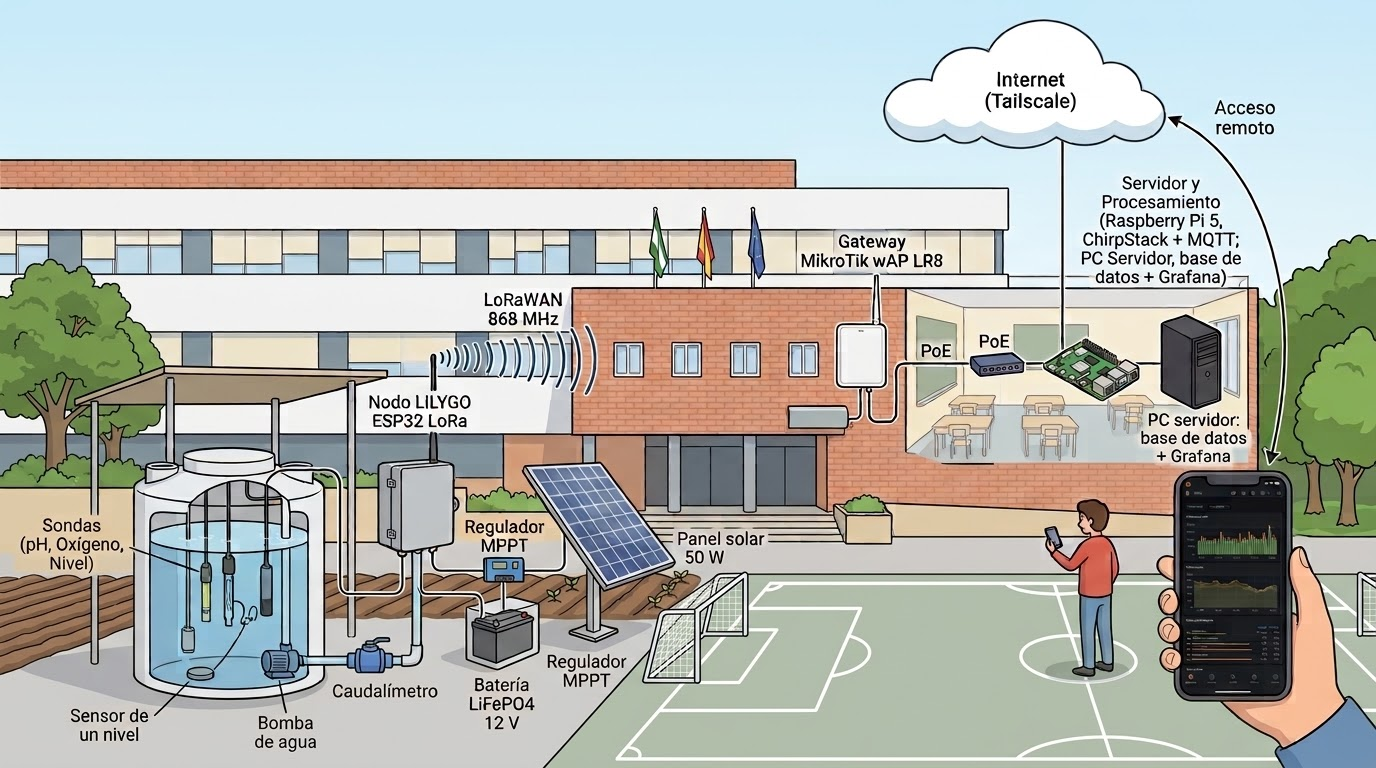
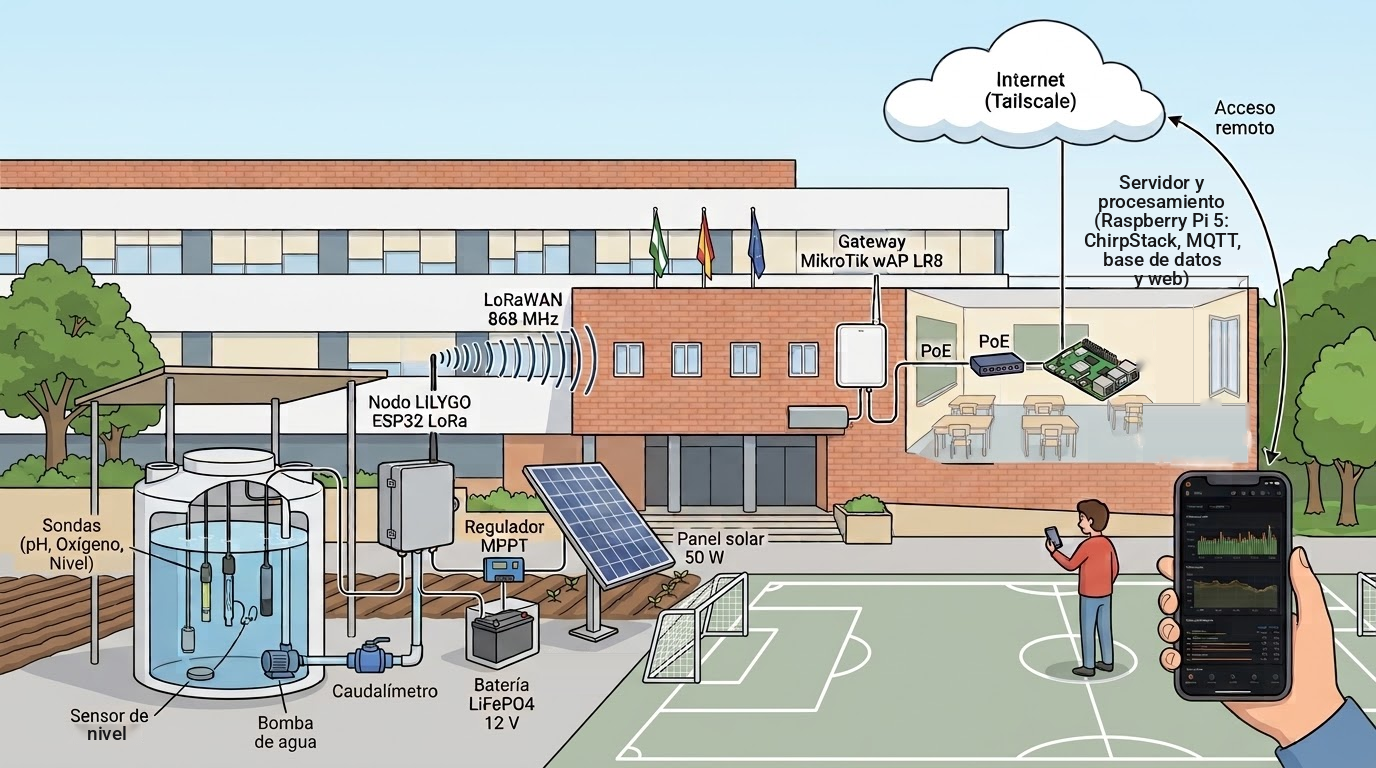
Lista de compra con enlaces comprobados y esquema corregido
Claude-Session: https://claude.ai/code/session_01RyhjygNwHjQbu5NjbwJkqd

diff --git a/docs/07-lista-compra.md b/docs/07-lista-compra.md
@@ -1,0 +1,162 @@
+# Lista de compra con enlaces
+
+Solo lo que hay que comprar (el material que ya tenemos está en `01-lista-material.md`, apartado A).
+Enlaces comprobados el 29/09/2026: todos abrían la ficha del producto con stock, salvo los marcados **SIN VERIFICAR**.
+Precios unitarios con IVA salvo DFRobot (en dólares, sin IVA ni envío). Pueden cambiar.
+
+No hace falta comprar: el convertidor 4-20 mA (viene con el KIT0139), el switch (con solo el wAP no hace falta),
+el PC de datos (todo va en la Raspberry) ni el DC-DC para el DFR1120 (admite 12-24 V según la wiki de DFRobot).
+
+## 1. Electrónica del nodo
+
+| Cant. | Artículo | Tienda | Precio ud. | Subtotal | Notas |
+|---|---|---|---|---|---|
+| 1 | [ADC 16 bits I2C Gravity ADS1115 (DFR0553)](https://www.dfrobot.com/product-1730.html) | DFRobot (oficial) | 15.50 $ | 15.50 $ | Envío desde China; IVA y aduana aparte. Alternativa en España: Adafruit ADS1115 en Embajadores, 21,63 €: https://www.electronicaembajadores.com/es/Productos/Detalle/LCINDD7/ |
+| 1 | [Aislador de señal analógica Gravity (DFR0504)](https://www.dfrobot.com/product-1621.html) | DFRobot (oficial) | 19.90 $ | 19.90 $ | No lo vende ninguna tienda española comprobable |
+| 1 | [Adaptador RS485-UART aislado Gravity (DFR0845)](https://www.electronicaembajadores.com/es/Productos/Detalle/LCHR006/) | Electrónica Embajadores | 36,14 € | 36,14 € | En DFRobot cuesta 19,90 USD |
+| 1 | [Convertidor DC-DC 12 V a 5 V 2,5 A Pololu D24V25F5 (reposo < 1 mA)](https://www.electan.com/pololu-25a-stepdown-voltage-regulator-d24v25f5-p-6473.html) | Electan | 29,26 € | 29,26 € |  |
+| 1 | [MOSFET P IRF4905 (conmutador 12 V)](https://www.electronicaembajadores.com/es/Productos/Detalle/SMTRIRF4905/) | Electrónica Embajadores | 1,28 € | 1,28 € | Sustituye al IRF9540N, que está sin stock |
+| 1 | [MOSFET P AO3401 SOT-23 (conmutador 5 V)](https://www.amazon.es/s?k=AO3401+SOT-23) | Amazon.es (búsqueda) | — | — | SIN VERIFICAR: Amazon no deja comprobarlo. Suele venir en lotes |
+| 1 | [Adaptador SOT-23 a DIP para el AO3401](https://www.electronicaembajadores.com/es/Productos/Detalle/CN15006/) | Electrónica Embajadores | 0,61 € | 0,61 € |  |
+| 2 | [Transistor NPN BC547C](https://www.electronicaembajadores.com/es/Productos/Detalle/SMTRBC547C/) | Electrónica Embajadores | 0,29 € | 0,58 € |  |
+| 1 | [MOSFET N nivel lógico IRLZ44N (bomba)](https://www.turibot.es/mosfet-irlz44n-49a-55v-5uds) | Turibot | 0,84 € | 0,84 € | Confirmar si el precio es por unidad o por lote |
+| 1 | [Diodo Schottky 1N5819](https://www.electronicaembajadores.com/es/Productos/Detalle/SMDI1N5819/) | Electrónica Embajadores | 0,28 € | 0,28 € |  |
+| 1 | [Kit 600 resistencias 1 % (30 valores: 220, 1k, 10k, 20k, 100k...)](https://leantec.es/tienda/lote-kit-600-resistencias-1-4w-1-30-valores/) | Leantec | 4,27 € | 4,27 € |  |
+| 2 | [Resistencia 22 kΩ 1 %](https://leantec.es/tienda/resistencia-22-kohm-1-4w-0-25w-pelicula-metalica-1/) | Leantec | 0,03 € | 0,06 € | Divisor de la batería |
+| 1 | [Placa de topos doble cara 9×15 cm](https://www.tiendatec.es/electronica/placas-de-prototipo/placas/891-placa-pcb-prototipos-doble-cara-9x15cm-8472496014496.html) | Tiendatec | 1,85 € | 1,85 € |  |
+| 2 | [Tira de pines hembra 2,54 mm 40 pines](https://www.electronicaembajadores.com/es/Productos/Detalle/CTO1HR40/) | Electrónica Embajadores | 1,71 € | 3,42 € |  |
+| 2 | [Tira de pines macho 2,54 mm 40 pines](https://www.electronicaembajadores.com/es/Productos/Detalle/CTO1MR40/) | Electrónica Embajadores | 0,50 € | 1,00 € |  |
+| 6 | [Borna de tornillo PCB 5,08 mm 2 vías](https://www.electronicaembajadores.com/es/Productos/Detalle/CTNA5102/) | Electrónica Embajadores | 0,30 € | 1,80 € |  |
+| 4 | [Borna de tornillo PCB 5,08 mm 3 vías](https://www.electronicaembajadores.com/es/Productos/Detalle/CTNA5103/) | Electrónica Embajadores | 0,43 € | 1,72 € |  |
+| 1 | [Cables Gravity PH2.0 3 pines (pack) FIT0896](https://www.dfrobot.com/product-2552.html) | DFRobot (oficial) | 6.00 $ | 6.00 $ |  |
+| 1 | [Kit antena LoRaWAN 868 MHz exterior + cable IPEX-SMA](https://www.tiendatec.es/maker-zone/comunicaciones-redes/2762-seeed-kit-antena-lorawan-para-wm1302.html) | Tiendatec | 6,95 € | 6,95 € |  |
+| 1 | [Pigtail u.FL a SMA hembra de pasamuros 15 cm](https://www.electronicaembajadores.com/es/Productos/Detalle/CXRF001/) | Electrónica Embajadores | 5,15 € | 5,15 € | Para sacar la antena por la pared de la caja |
+| 1 | [Cable USB-A a USB-C de datos 1 m](https://www.electronicaembajadores.com/es/Productos/Detalle/CX313101/) | Electrónica Embajadores | 5,83 € | 5,83 € | Si la LILYGO es micro-USB, cambiarlo |
+
+Subtotal: **101,04 €** + **41.40 $**
+
+## 2. Cajas, conectores y cableado exterior
+
+| Cant. | Artículo | Tienda | Precio ud. | Subtotal | Notas |
+|---|---|---|---|---|---|
+| 1 | [Caja estanca IP66 255×250×120 mm (electrónica)](https://www.electronicaembajadores.com/es/Productos/Detalle/CJ41G712/) | Electrónica Embajadores | 56,55 € | 56,55 € |  |
+| 1 | [Caja estanca ABS 320×270×121 mm IP65 (batería y MPPT)](https://www.electronicaembajadores.com/es/Productos/Detalle/CJ41D09/) | Electrónica Embajadores | 69,03 € | 69,03 € | La batería va tumbada; con el toldo encima, IP65 es suficiente |
+| 2 | [Tapón de ventilación M12 con membrana](https://www.amazon.es/s?k=tap%C3%B3n+ventilaci%C3%B3n+M12x1.5+IP68+membrana) | Amazon.es (búsqueda) | — | — | SIN VERIFICAR |
+| 1 | [Conector GX16 4 pines: base macho](https://www.electronicaembajadores.com/es/Productos/Detalle/CTEAMB4/) | Electrónica Embajadores | 1,00 € | 1,00 € | Sensor de oxígeno |
+| 1 | [Conector GX16 4 pines: aéreo hembra](https://www.electronicaembajadores.com/es/Productos/Detalle/CTEAHA4/) | Electrónica Embajadores | 0,90 € | 0,90 € |  |
+| 1 | [Conector GX16 2 pines: base macho](https://www.electronicaembajadores.com/es/Productos/Detalle/CTEAMB2/) | Electrónica Embajadores | 1,40 € | 1,40 € | Bomba |
+| 1 | [Conector GX16 2 pines: aéreo hembra](https://www.electronicaembajadores.com/es/Productos/Detalle/CTEAHA2/) | Electrónica Embajadores | 1,23 € | 1,23 € |  |
+| 3 | [Conector GX16 3 pines: base macho](https://www.electronicaembajadores.com/es/Productos/Detalle/CTEAMB3/) | Electrónica Embajadores | 0,94 € | 2,82 € | Caudalímetro, presencia de agua y nivel |
+| 3 | [Conector GX16 3 pines: aéreo hembra](https://www.electronicaembajadores.com/es/Productos/Detalle/CTEAHA3/) | Electrónica Embajadores | 0,92 € | 2,76 € |  |
+| 1 | [Pasamuros BNC hembra-hembra](https://www.electronicaembajadores.com/es/Productos/Detalle/CT2A703/) | Electrónica Embajadores | 2,25 € | 2,25 € | Sonda de pH |
+| 3 | [Prensaestopas PG9 IP68](https://www.electronicaembajadores.com/es/Productos/Detalle/CC2APG09N/) | Electrónica Embajadores | 0,84 € | 2,52 € |  |
+| 3 | [Prensaestopas PG11 IP68](https://www.electronicaembajadores.com/es/Productos/Detalle/CC2APG11N/) | Electrónica Embajadores | 0,80 € | 2,40 € |  |
+| 5 | [Manguera apantallada 4×0,5 mm² (metro)](https://www.electricidad.tienda/cable-apantallado/manguera-apantallada-4x05-mm2-libre-de-halogenos-rc4z1-k-por-metros-7372.html) | electricidad.tienda | 1,36 € | 6,80 € | RS485 + 12 V del sensor de oxígeno |
+| 5 | [Manguera 3×1 mm² (metro)](https://www.electronicaembajadores.com/es/Productos/Detalle/CA2A011/) | Electrónica Embajadores | 1,98 € | 9,90 € | Caudalímetro, presencia y nivel |
+| 3 | [Manguera RV-K 2×1,5 mm² exterior (metro)](https://www.electronicaembajadores.com/es/Productos/Detalle/CA2A213/) | Electrónica Embajadores | 1,88 € | 5,64 € | Bomba |
+| 1 | [Barniz protector tropicalizador Jelt Tropicoat 400 ml](https://www.electronicaembajadores.com/es/Productos/Detalle/HR11060/) | Electrónica Embajadores | 18,85 € | 18,85 € |  |
+| 1 | [Gel de sílice, 100 bolsitas de 10 g](https://www.bolaseca.com/es/productos/silica-gel/silica-gel-100-bolsitas-de-10-gramos) | Bolaseca | — | — | Pedir presupuesto (no muestra precio) |
+| 1 | [Candado numérico 4 dígitos](https://www.electronicaembajadores.com/es/Productos/Detalle/SG2A101N/) | Electrónica Embajadores | 6,78 € | 6,78 € | Solo si la caja tiene orejetas |
+
+Subtotal: **190,83 €**
+
+## 3. Circuito de agua y soporte de sondas
+
+| Cant. | Artículo | Tienda | Precio ud. | Subtotal | Notas |
+|---|---|---|---|---|---|
+| 1 | [Bidón HDPE 60 L con tapa, gris opaco](https://ricardoteransl.es/producto/bidon-gris-60-l/) | Ricardo Terán | 29,50 € | 29,50 € | COMPROBAR que la boca es ancha: las sondas se cuelgan de una pletina que cruza la boca |
+| 1 | [Bomba sumergible 12 V sin escobillas DC40A-1230 (0,8 A, 500 L/h, 3 m)](https://www.amazon.es/s?k=DC40A-1230) | Amazon.es (búsqueda) | — | — | SIN VERIFICAR. Ficha del fabricante: https://zksj.com/product/3_phase_brushless_DC_Pump_DC40A.html . Comprobar que es la 1230 de 12 V (la 1245 gasta 1,2 A) |
+| 1 | [Filtro en Y latón 1/2" H-H, malla inox](https://www.traxco.es/tienda/filtro-laton) | Traxco | 3,60 € | 3,60 € | Elegir 1/2" |
+| 1 | [Caudalímetro de efecto Hall YF-S201](https://tienda.bricogeek.com/otros-sensores/936-sensor-de-flujo-yf-s201.html) | BricoGeek | 4,78 € | 4,78 € |  |
+| 1 | [Válvula de esfera PVC 1/2" rosca hembra](https://www.fuentejardin.com/valvulas-de-esfera-pvc-rh/388-valvula-de-esfera-pvc-12-rosca-hembra.html) | FuenteJardín (Sevilla) | 7,44 € | 7,44 € |  |
+| 3 | [Manguera cristal reforzada 12×18 mm (metro)](https://www.suministrosurquiza.com/metro-manguera-cristal-reforzada) | Suministros Urquiza | 1,39 € | 4,17 € | Elegir 12×18 |
+| 3 | [Entronque manguera macho latón 14 mm × 1/2"](https://www.fuentejardin.com/entronque-manguera-macho-laton/2263-entronque-manguera-macho-laton-14mmx12.html) | FuenteJardín (Sevilla) | 4,46 € | 13,38 € |  |
+| 1 | [Racor manguera hembra latón 14 mm × 1/2"](https://www.fuentejardin.com/racor-2-piezas-manguera-hembra/2269-racor-2-piezas-manguera-h-laton-14mmx12.html) | FuenteJardín (Sevilla) | 2,88 € | 2,88 € |  |
+| 10 | [Abrazadera sinfín inox W4 12-22 mm](https://agrogomasonline.com/sin-fin-inox/8279-abrazaderas-sinfin-inox-w4-12-22-l.html) | Agrogomas | 1,45 € | 14,50 € |  |
+| 1 | [Cinta de teflón 12 m](https://www.fuentejardin.com/cinta-de-sellado/383-cinta-de-sellado-12-mm-x-12-m-x-01-mm.html) | FuenteJardín (Sevilla) | 0,63 € | 0,63 € |  |
+| 1 | [Pletina de aluminio 40×3 mm, barra 2,5 m](https://www.esteba.com/es/perfil-pletina-plana-aluminio) | Esteba | 29,27 € | 29,27 € | Soporte de las sondas; elegir 40×3 |
+| 1 | [Prensaestopas PG16 IP68 (sonda de pH)](https://www.electronicaembajadores.com/es/Productos/Detalle/CC2APG16/) | Electrónica Embajadores | 1,00 € | 1,00 € |  |
+| 3 | [Prensaestopas PG21 IP68 (sonda de oxígeno y tapa del depósito)](https://www.electronicaembajadores.com/es/Productos/Detalle/CC2APG21/) | Electrónica Embajadores | 1,80 € | 5,40 € | Medir la sonda de oxígeno antes |
+| 1 | [Prensaestopas PG13,5 IP68 (cable del sensor de nivel)](https://www.electronicaembajadores.com/es/Productos/Detalle/CC2APG13/) | Electrónica Embajadores | 0,89 € | 0,89 € |  |
+| 8 | [Tornillo hexagonal DIN 933 inox A2 M6×30](https://entaban.es/hexagonales/138-tornillo-hexagonal-din-933-inoxidable-a2.html) | Entaban | 0,10 € | 0,80 € | Precio orientativo según medida |
+| 8 | [Tuerca autoblocante DIN 985 inox A2 M6](https://entaban.es/autoblocantes/164-tuerca-autoblocante-din-985-inoxidable-a2.html) | Entaban | 0,07 € | 0,56 € |  |
+| 1 | [Toldo vela HDPE 3,6×3,6 m](https://terralba.es/toldos-y-sombra/5454-toldo-vela-sombra-36x36-beige-8435450468308.html) | Terralba | 49,90 € | 49,90 € |  |
+
+Subtotal: **168,70 €**
+
+## 4. Energía autónoma (panel + batería)
+
+| Cant. | Artículo | Tienda | Precio ud. | Subtotal | Notas |
+|---|---|---|---|---|---|
+| 1 | [Panel solar Victron 50 W 12 V monocristalino](https://solarmat.es/es/paneles-solares-12v/panel-solar-monocristalino-12v-50w-victron.html) | Solarmat | 89,44 € | 89,44 € |  |
+| 1 | [Estructura regulable 30-60° para panel](https://www.damiasolar.com/estructura-para-panel-solar-regulable-30-a-60-grados.html) | Damia Solar | 55,00 € | 55,00 € |  |
+| 1 | [Batería LiFePO4 12,8 V 20 Ah con BMS FirstPower FPLI1220AH](https://www.andupil.com/es/baterias-para-alumbrado-de-emergencia-y-senalizacion/19144-bateria-de-litio-128v-20ah-256wh-lifepo4-firstpower-fpli1220ah.html) | Andupil | 134,16 € | 134,16 € | Alternativa más barata: INNPO 20 Ah, 75 €: https://bateriasonline.com/es/baterias-litio-recargable/bateria-lifepo4-12v-20ah-innpo-baterias-litio-recargable.html |
+| 1 | [Regulador Victron SmartSolar MPPT 75/10 (con salida de carga)](https://www.damiasolar.com/regulador-victron-mppt-smartsolar-75-10.html) | Damia Solar | 73,38 € | 73,38 € | Autoconsumo 20 mA; corte por baja tensión configurable |
+| 2 | [Portafusibles aéreo de láminas con tapa](https://www.electronicaembajadores.com/es/Productos/Detalle/FU5A011/) | Electrónica Embajadores | 1,53 € | 3,06 € | Dentro de la caja |
+| 4 | [Fusible de láminas 5 A](https://www.electronicaembajadores.com/es/Productos/Detalle/FUAUM502/) | Electrónica Embajadores | 0,20 € | 0,80 € | 2 de repuesto |
+| 4 | [Fusible de láminas 3 A](https://www.electronicaembajadores.com/es/Productos/Detalle/FUAUM302/) | Electrónica Embajadores | 0,35 € | 1,40 € | 2 de repuesto |
+| 1 | [Desconectador de baterías rotativo IP66](https://cuencasolar.es/producto/desconectador-de-baterias-300a/) | CuencaSolar | 57,86 € | 57,86 € | Sobredimensionado; un interruptor de 12 V más pequeño también vale. La tienda bloquea las comprobaciones automáticas: abrir el enlace a mano |
+| 10 | [Cable solar 4 mm² (metro)](https://solarmat.es/es/Cable-solar/metro-cable-solar-4mm2.html) | Solarmat | 2,21 € | 22,10 € | Negro: marcar el positivo con cinta roja |
+| 1 | [Par de conectores MC4](https://solarmat.es/es/Conector-solar/par-de-conectores-solares-macho-y-hembra.html) | Solarmat | 7,02 € | 7,02 € |  |
+| 2 | [Cable 2,5 mm² rojo (metro)](https://www.electronicaembajadores.com/en/Productos/Detalle/CA5A2PV22/) | Electrónica Embajadores | 3,16 € | 6,32 € | Confirmar si se vende por metro |
+| 2 | [Cable 2,5 mm² negro (metro)](https://www.electronicaembajadores.com/en/Productos/Detalle/CA5A2PV21/) | Electrónica Embajadores | 3,16 € | 6,32 € |  |
+| 1 | [Terminales de ojal 2,5 mm² M6 (25 uds)](https://www.electronicaembajadores.com/en/Productos/Detalle/CTV1R27-25/) | Electrónica Embajadores | 3,99 € | 3,99 € |  |
+| 1 | [Punteras 2,5 mm² (100 uds)](https://www.electronicaembajadores.com/en/Productos/Detalle/CTV1010/) | Electrónica Embajadores | 2,39 € | 2,39 € |  |
+| 1 | [Bridas negras 4,8×188 mm (100 uds)](https://todoelectrico.es/es/bridas-100-ud-negra-4-8x188mm-u2244-0.html) | Todoeléctrico | 6,21 € | 6,21 € |  |
+| 1 | [Pica de tierra 1,5 m cobreada](https://bricoelige.com/pica-acero-cobre-100-micras-15-metros) | Bricoelige | 14,69 € | 14,69 € | Solo si no hay toma de tierra cerca |
+| 1 | [Grapa para pica de tierra](https://bricoelige.com/grapa-toma-tierra-tgt142-sofamel) | Bricoelige | 3,44 € | 3,44 € |  |
+| 3 | [Cable 6 mm² para tierra (metro)](https://solarmat.es/es/Cable-solar/metro-cable-solar-6mm2.html) | Solarmat | 3,12 € | 9,36 € | Marcar con cinta verde-amarilla |
+| 1 | [Terminales de ojal 6 mm² (25 uds)](https://www.electronicaembajadores.com/es/Productos/Detalle/CTV1R45-25/) | Electrónica Embajadores | 5,90 € | 5,90 € |  |
+
+Subtotal: **502,84 €**
+
+## 5. Raspberry Pi 5 y red
+
+| Cant. | Artículo | Tienda | Precio ud. | Subtotal | Notas |
+|---|---|---|---|---|---|
+| 1 | [SSD NVMe M.2 2242 256 GB Waveshare](https://www.kubii.com/es/medios-de-almacenamiento/4997-disco-duro-ssd-nvme-m2-2242-3272496325340.html) | Kubii | 79,90 € | 79,90 € | El SSD oficial está agotado |
+| 1 | [Raspberry Pi M.2 HAT+ oficial](https://www.kubii.com/es/hat-dac-modulos/4114-m2-hat-para-raspberry-pi-5-5056561803463.html) | Kubii | 14,10 € | 14,10 € |  |
+| 1 | [Batería RTC oficial Raspberry Pi 5](https://www.kubii.com/es/baterias-pilas/4110-bateria-rtc-para-raspberry-pi-5-5056561803739.html) | Kubii | 6,00 € | 6,00 € |  |
+| 1 | [Fuente oficial Raspberry Pi 27 W USB-C](https://www.kubii.com/es/fuentes-de-alimentacion/4107-1890-fuente-de-alimentacion-raspberry-pi-27w-usb-c-3272496315761.html) | Kubii | 12,90 € | 12,90 € |  |
+| 1 | [Active Cooler oficial Raspberry Pi 5](https://www.kubii.com/es/ventiladores-disipadores-de-calor/4109-ventilador-disipador-para-raspberry-pi-5-5056561803357.html) | Kubii | 6,00 € | 6,00 € |  |
+| 1 | [Adaptador USB 3.0 a Ethernet Gigabit](https://www.tiendatec.es/maker-zone/comunicaciones-redes/2057-adaptador-usb-3-0-a-ethernet-gigabit-8436574700480.html) | Tiendatec | 12,95 € | 12,95 € | Pedir el de chip RTL8153 |
+| 2 | [Latiguillo UTP Cat6 1 m](https://www.electronicaembajadores.com/es/Productos/Detalle/CX3A601/) | Electrónica Embajadores | 1,38 € | 2,76 € | Raspberry-inyector PoE y red del instituto |
+| 1 | [SAI Salicru SPS 500 ONE v2 (opcional)](https://www.discoazul.com/sai-linea-interactiva-salicru-sps-500-one-v2-500va-240w-2-schuko.html) | Discoazul | 63,99 € | 63,99 € | Opcional |
+
+Subtotal: **198,60 €**
+
+## 6. Calibración y medida
+
+| Cant. | Artículo | Tienda | Precio ud. | Subtotal | Notas |
+|---|---|---|---|---|---|
+| 1 | [Solución tampón pH 4,01 Hanna 230 ml](https://www.hannainst.es/parametros/5096-solucion-tampon-ph-401.html) | Hanna Instruments | 12,10 € | 12,10 € |  |
+| 1 | [Solución tampón pH 7,01 Hanna 230 ml](https://www.hannainst.es/parametros/5099-solucion-tampon-ph-701.html) | Hanna Instruments | 12,10 € | 12,10 € |  |
+| 1 | [Solución tampón pH 10,01 Hanna 230 ml](https://www.hannainst.es/parametros/5095-solucion-tampon-ph-1001.html) | Hanna Instruments | 12,10 € | 12,10 € |  |
+| 1 | [Solución de almacenamiento de electrodos Hanna 230 ml](https://www.hannainst.es/parametros/4974-solucion-almacenamiento-electrodos.html) | Hanna Instruments | 21,78 € | 21,78 € |  |
+| 3 | [Vaso de precipitado 100 ml borosilicato](https://www.daselab.es/vasos-de-vidrio/198-vaso-precipitado-forma-baja-100-ml.html) | Daselab | 1,45 € | 4,35 € |  |
+| 1 | [Escobillón nº 40 (limpiar sondas)](https://www.daselab.es/labware/3156-escobillon-n-40-ptubos-medianos.html) | Daselab | 1,40 € | 1,40 € |  |
+| 1 | [Vatímetro DC jOY-it COM-VAO10020](https://www.electronicaembajadores.com/es/Productos/Detalle/IPDDAM5/) | Electrónica Embajadores | 14,90 € | 14,90 € | Medir consumos en la fase 6 |
+| 1 | Agua destilada (garrafa 5 L) | Supermercado o ferretería | — | — | Compra local, unos 2 € |
+
+Subtotal: **78,73 €**
+
+## Total
+
+| Bloque | €, IVA incl. | $ (DFRobot) |
+|---|---|---|
+| 1. Electrónica del nodo | 101,04 | 41.40 |
+| 2. Cajas, conectores y cableado exterior | 190,83 | — |
+| 3. Circuito de agua y soporte de sondas | 168,70 | — |
+| 4. Energía autónoma (panel + batería) | 502,84 | — |
+| 5. Raspberry Pi 5 y red | 198,60 | — |
+| 6. Calibración y medida | 78,73 | — |
+| **Total** | **1.240,74 €** | **41.40 $** |
+
+Sin contar 5 artículos sin precio (bomba, AO3401, tapones de ventilación, gel de sílice, agua destilada; unos 40 € más)
+ni los portes de cada tienda. El SAI (64 €) es opcional.
+
+## Tiendas principales
+- **Electrónica Embajadores** (Madrid): casi toda la electrónica, cajas, conectores y cables en un pedido. Pedido mínimo 10 € sin IVA.
+- **FuenteJardín** (Bollullos de la Mitación, Sevilla, tel. 955 692 234): fontanería.
+- **Kubii**: Raspberry Pi. **Solarmat** y **Damia Solar**: panel, regulador y cable solar.
+- **DFRobot**: aislador, ADS1115 y cables Gravity (envío internacional).

diff --git a/CLAUDE.md b/CLAUDE.md
@@ -78,6 +78,8 @@ docs/
   04-formato-payload.md       ← formato binario del mensaje LoRaWAN (v2, con caudal)
   05-indice-memoria.md        ← índice provisional de la memoria
   06-maqueta.md               ← maqueta exterior, ciclo de bombeo y balance de energía
+  07-lista-compra.md          ← lo que hay que comprar, con enlaces y precios
+  img/esquema-sistema.png     ← dibujo del sistema completo
   memoria/                    ← (se crea en la fase 7) capítulos de la memoria del TFG
 firmware/nodo-agua/           ← proyecto PlatformIO de la LILYGO
 raspberry/                    ← todo el servidor (ver raspberry/README.md para ponerlo en marcha)

diff --git a/README.md b/README.md
@@ -11,7 +11,7 @@ accesible desde Internet con DuckDNS.
 ![Esquema del sistema](docs/img/esquema-sistema.png)
 
 - Plan completo y tareas: [`CLAUDE.md`](CLAUDE.md)
-- Material: [`docs/01-lista-material.md`](docs/01-lista-material.md)
+- Material: [`docs/01-lista-material.md`](docs/01-lista-material.md) · compra con enlaces: [`docs/07-lista-compra.md`](docs/07-lista-compra.md)
 - Red: [`docs/02-arquitectura-red.md`](docs/02-arquitectura-red.md)
 - Conexionado del nodo: [`docs/03-conexionado-nodo.md`](docs/03-conexionado-nodo.md)
 - Maqueta y energía: [`docs/06-maqueta.md`](docs/06-maqueta.md)
